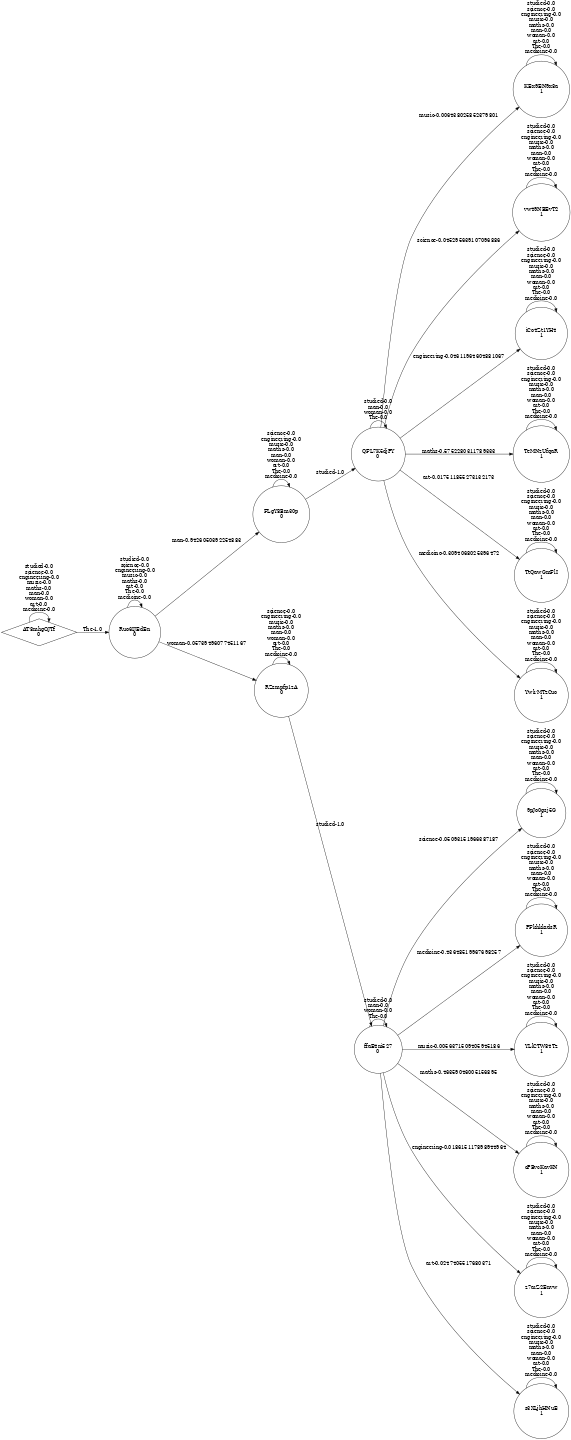
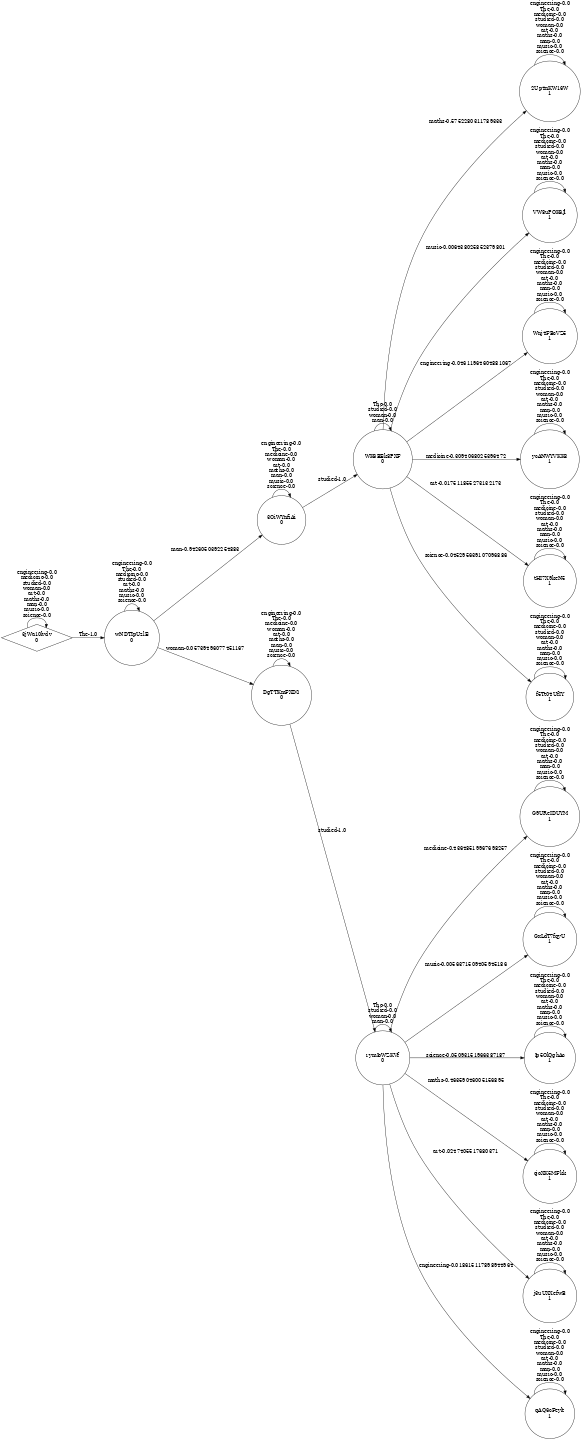
refactors and improvements

diff --git a/llm_automaton/llm_automaton_builder.py b/llm_automaton/llm_automaton_builder.py
@@ -14,19 +14,16 @@ import random
 
 # Traverses the regex automaton and generate a PDFA
 class LLMAutomatonBuilder:
-    name_counter = 0
 
     def construct_llm_automaton(self, regex_automaton: DeterministicFiniteAutomaton, llm:Wrapper):
-        # Traverse the regex_automaton in a DFS manner
+        # Traverse the regex_automaton in a BFS manner
         # for each node, take the transitions and ask a query to the llm
         # create a new node in the llm automaton and add the transitions
         # with the probabilities returned by the llm
         pdfa_states = set()
-        pdfa_initial_state = create_pdfa_state(regex_automaton.alphabet.symbols, initial_weight=1, final_weight=0, name=self.name_counter)
-        # pdfa_initial_state = WeightedState(name = random.choice(alphanumeric_chars), initial_weight=1, final_weight=0)
+        pdfa_initial_state = create_pdfa_state(regex_automaton.alphabet.symbols, initial_weight=1, final_weight=0)
         pdfa_states.add(pdfa_initial_state)
 
-        # initialPairs is an arbitrary pair of states
         initialState = regex_automaton.initial_state
         statesToVisit = [initialState]
         sequenceForStates = DictOfQueue()
@@ -58,19 +55,15 @@ def process_state_transitions(sequenceForStates: dict[State, Sequence], state: S
     sequence = sequenceForStates.get_and_remove_first_value(state)
     actual_pdfa_state = search_state_by_sequence(sequence, pdfa_initial_state)
 
-    # if state.is_final:
-    #     actual_pdfa_state.final_weight = 0.3
-
-    # Here we need all the symbols in the transitions
-    # If we assume the DFA is complete, we could simply use th alphabet here
     transitions = state.transitions
     symbols = []
     for symbol, _ in transitions.items():
         symbols.append(symbol)
 
-       
     if len(transitions) == 0:
         # We are in a final state
+        # Since this is the only way we know the state is final, for any automaton that 
+        # does not have a final state with 0 transitions, this algorithm will fail
         actual_pdfa_state.final_weight = 1
         return pdfa_states
     if len(transitions) == 1:
@@ -106,18 +99,19 @@ def process_state_transitions(sequenceForStates: dict[State, Sequence], state: S
     return pdfa_states
     
 
-def create_pdfa_state(symbols: set[SymbolStr], initial_weight: float = 0, final_weight: float = 0, name = None):
+def create_pdfa_state(symbols: set[SymbolStr], initial_weight: float = 0, final_weight: float = 0):
     alphanumeric_chars = string.ascii_letters + string.digits
     
+    # Create a random name for the state, make sure that is unique in the automaton
     name = "".join(random.choice(alphanumeric_chars) for _ in range(10))
     new_state = WeightedState(name=name, initial_weight=initial_weight, final_weight=final_weight)
-    # We create a transition for each symbol, to make sure the automaton is complete or else the init function will fail
+    # We create a transition for each symbol, to make sure the automaton is complete
     for symbol in symbols :
         new_state.add_transition(symbol, new_state, 0.0)
 
     return new_state
 
-# Since we created the state with placeholder transitions and the pythautomata library allows to have multiple transitions for the same symbol,
+# Since we created the state with placeholder transitions and the pythautomata library allows to have multiple transitions for the same symbol
 # which is not what we want. We need to clear the transitions for that symbol and add the new one 
 def upsert_transition(state: WeightedState, symbol: SymbolStr, new_state: WeightedState, probability: float):
     if symbol not in state.transitions_set:
@@ -129,7 +123,6 @@ def upsert_transition(state: WeightedState, symbol: SymbolStr, new_state: Weight
         state.add_transition(symbol, new_state, probability)
     
     
-
 def sequence_to_string(sequence: Sequence):
     string = ""
     for symbol in sequence:

diff --git a/main.py b/main.py
@@ -2,10 +2,10 @@ import torch
 from transformers import AutoModelForCausalLM
 from transformers import AutoTokenizer
 from model_wrapper.gpt2_wrapper import GPT2Wrapper
-from llm_automaton.llm_automaton import LLMAutomatonBuilder
+from llm_automaton.llm_automaton_builder import LLMAutomatonBuilder
 from pythautomata.automata_definitions.tomitas_grammars import TomitasGrammars
 from automata_examples.man_woman_dfa import get_man_woman_automaton
-from pythautomata.model_exporters.dot_exporters.dfa_dot_exporting_strategy import DfaDotExportingStrategy
+from pythautomata.model_exporters.dot_exporters.wfa_dot_exporting_strategy import WFADotExportingStrategy
 
 def main():
     torch.manual_seed(42)
@@ -22,7 +22,9 @@ def main():
     builder = LLMAutomatonBuilder()
     automaton = builder.construct_llm_automaton(get_man_woman_automaton(), wrapper)
 
-    automaton.export()
+    exporter = WFADotExportingStrategy()
+    exporter.export(automaton)
+    # automaton.export()
 
 
 if __name__ == "__main__":

diff --git a/automata_examples/man_woman_dfa.py b/automata_examples/man_woman_dfa.py
@@ -10,6 +10,7 @@ alphabet = Alphabet(frozenset((SymbolStr("The"), SymbolStr("man"), SymbolStr("wo
                                SymbolStr("medicine"), SymbolStr("science"), SymbolStr("engineering"), 
                                SymbolStr("maths"), SymbolStr("art"), SymbolStr("music"))))
 
+# This automaton represents the following regex: "The (man|woman) studied (medicine|science|engineering|maths|art|music)"
 def get_man_woman_automaton():
     stateA = State("A", False)
     stateB = State("B", False)
@@ -27,7 +28,6 @@ def get_man_woman_automaton():
     stateD.add_transition(SymbolStr("art"), stateE)
     stateD.add_transition(SymbolStr("music"), stateE)
     states = frozenset({stateA, stateB, stateC, stateD, stateE})
-    # states = frozenset({stateA, stateB, stateC, stateD})
 
     initial_state = stateA
 

diff --git a/model_wrapper/gpt2_wrapper.py b/model_wrapper/gpt2_wrapper.py
@@ -37,6 +37,9 @@ class GPT2Wrapper(Wrapper):
 
         return self.get_words_probabilities(probs, symbols)
 
+    # TODO: We should make sure that we are calculating the probabilities for the correct words
+    # Since the tokenizer splits words in different ways, we should check that the probabilities
+    # make sense
     def get_words_probabilities(self, probs, symbols):
         word_probabilities = {}
         for word in symbols:

diff --git a/utils/dict_of_queue.py b/utils/dict_of_queue.py
@@ -1,9 +1,6 @@
-from pythautomata.base_types.sequence import Sequence
 from queue import Queue
 
 # This class is used to store a dictionary of queues
-# But the implementation is strictly dependant of the Sequence class
-# So it is not a generic implementation of a dictionary of queues
 class DictOfQueue:
     def __init__(self):
         self._dict = {}
